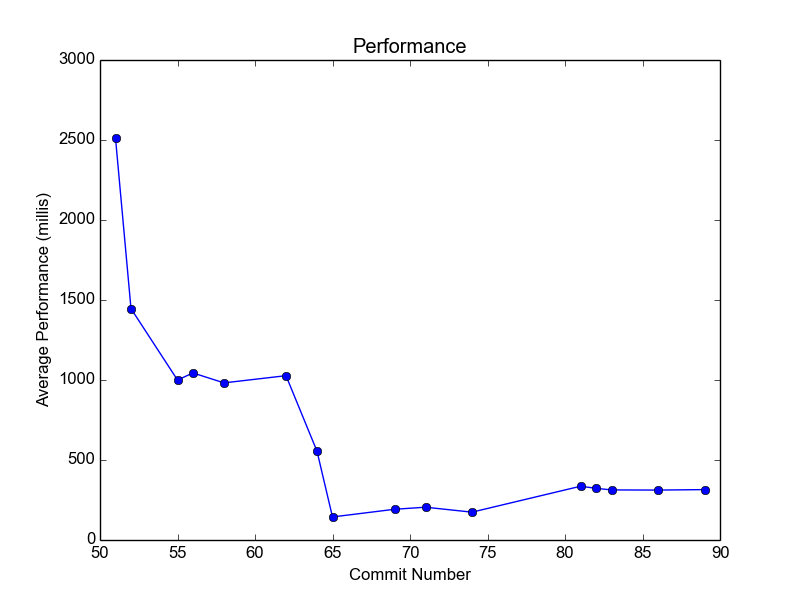
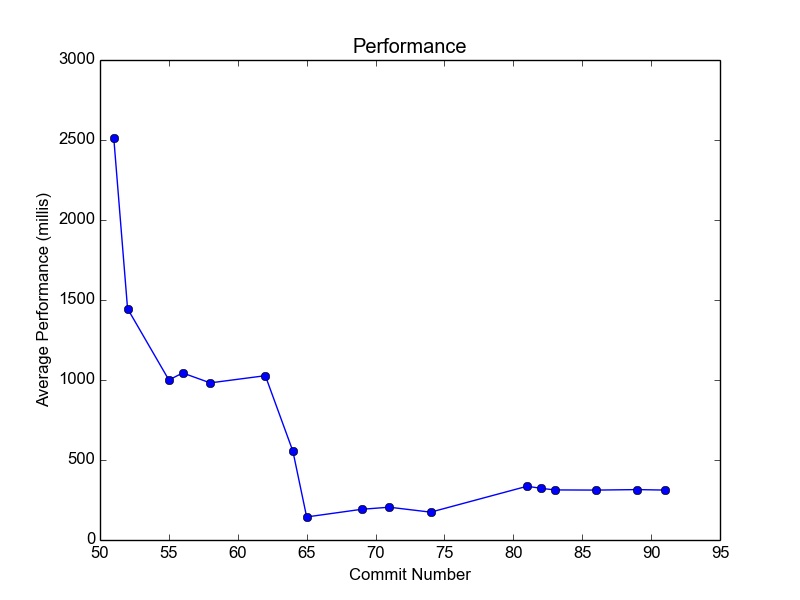
Quick fix, caught by the performance tests

diff --git a/uct.c b/uct.c
@@ -85,7 +85,7 @@ void destroyUctNode(UctNode *v) {
 // Returns the best move.  Entry point (should make everything else static)
 int uctSearch(State *state, Config *config, HashTable *hashTable) {
 	int rollouts = config->rollouts;
-	int lengthOfGame = config->rollouts;
+	int lengthOfGame = config->lengthOfGame;
 	int threads = config->threads;
 
 	UctNode *root = createRootUctNode(state, hashTable);
